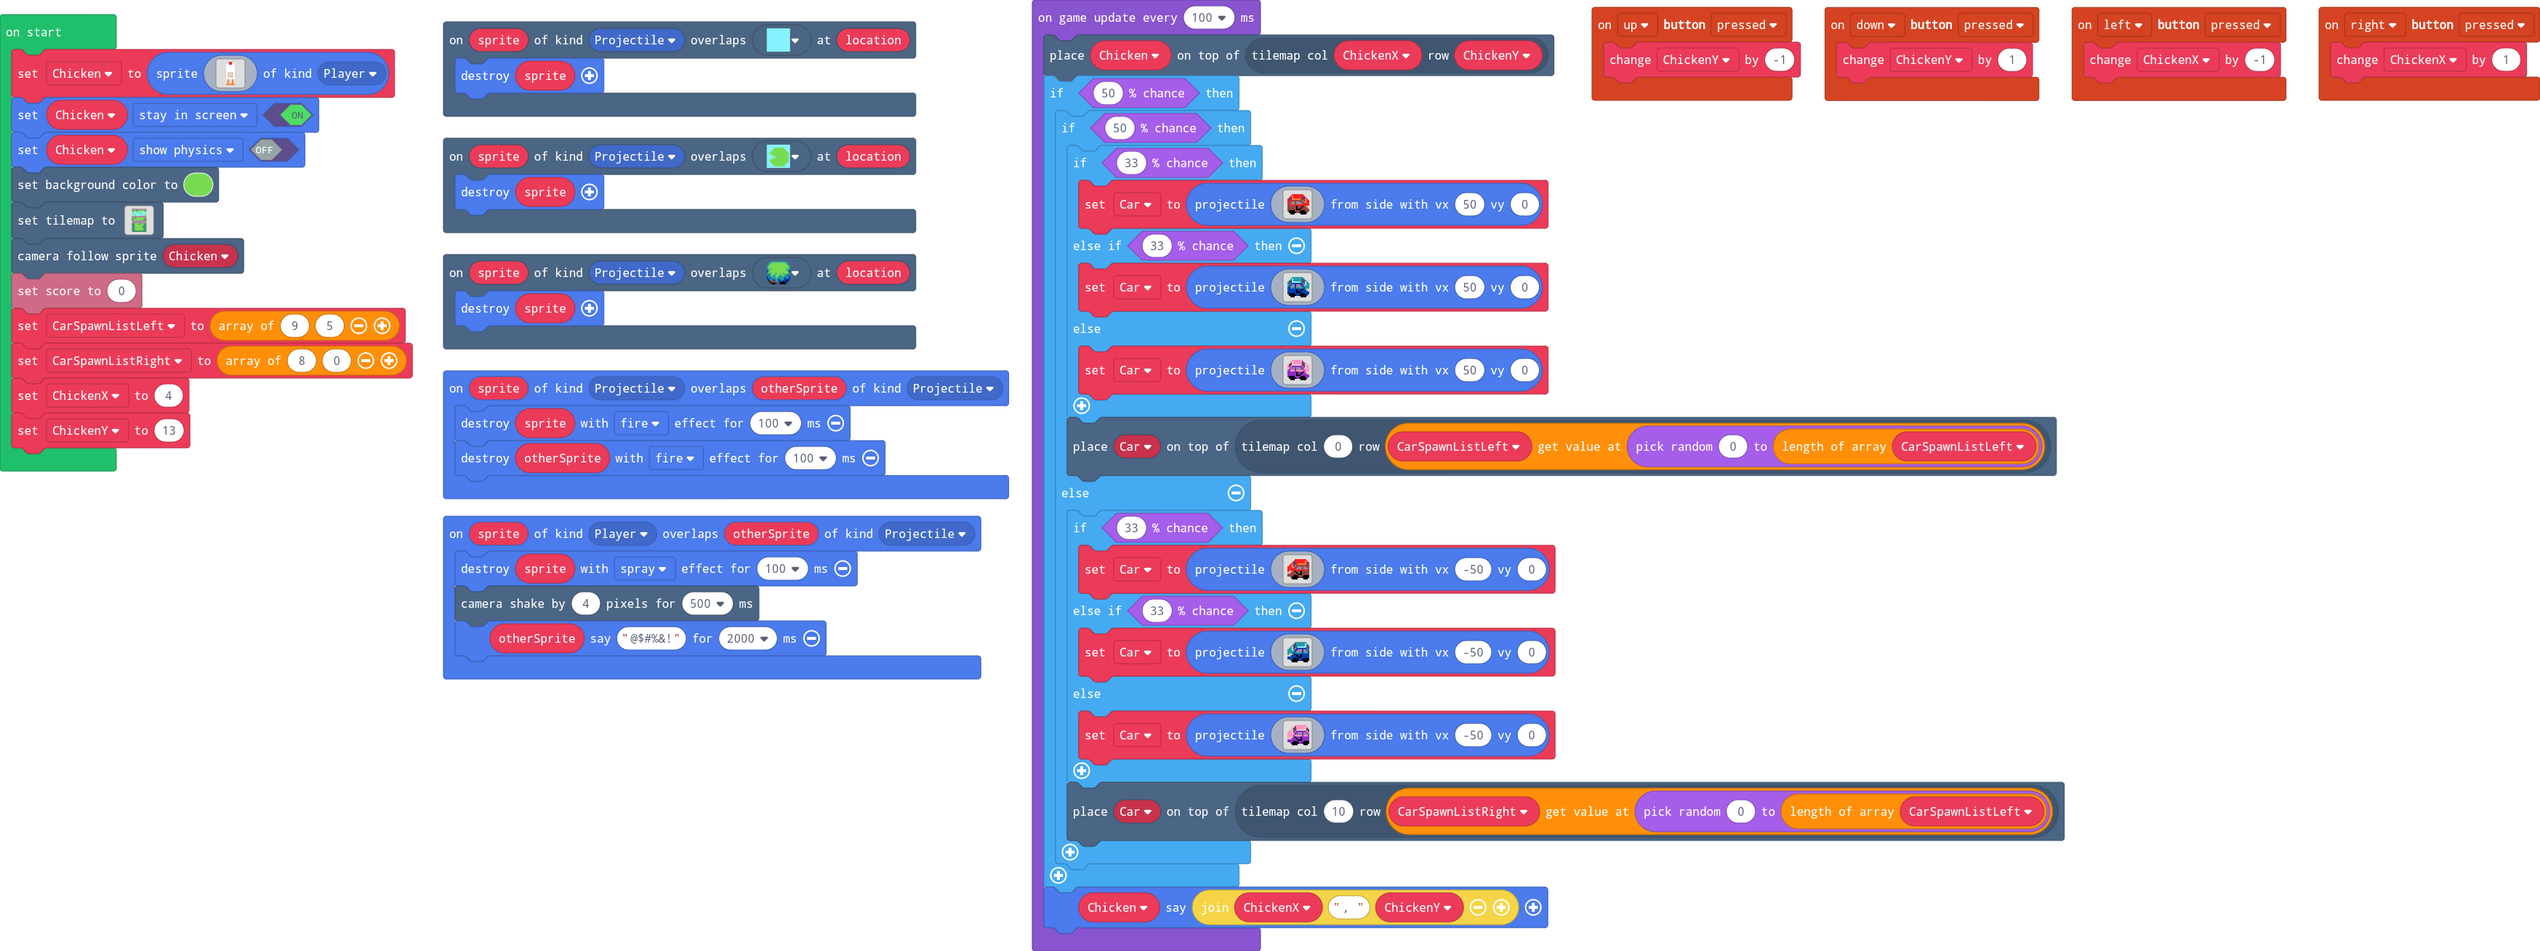
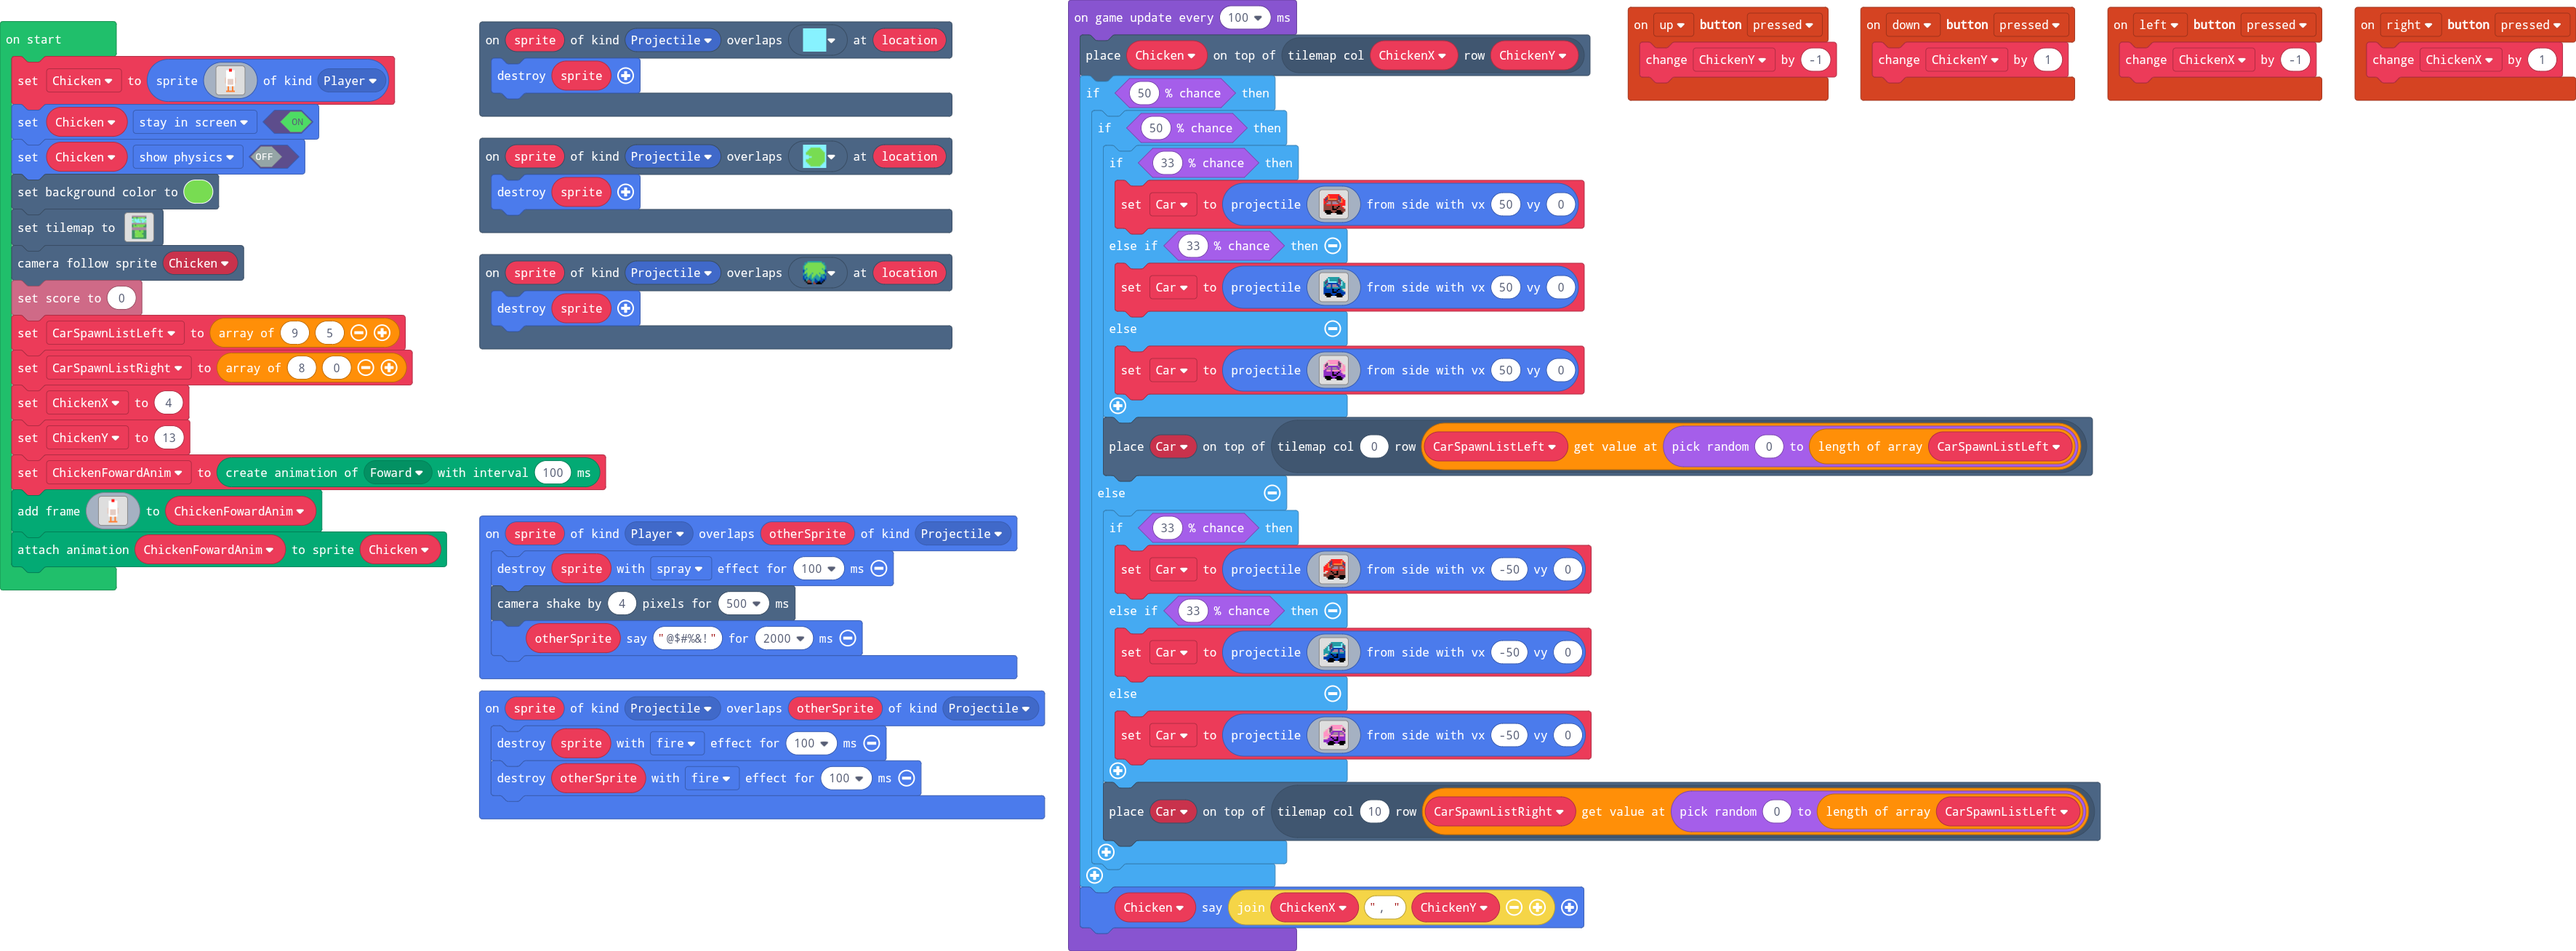
Update main.blocks, main.ts

Changed region(s): [[0.0, 0.0, 0.9671, 1.0], [0.3432, 0.2141, 0.3744, 0.2446], [0.3432, 0.0917, 0.3744, 0.1223]]

diff --git a/main.ts b/main.ts
@@ -163,6 +163,26 @@ let CarSpawnListLeft = [9, 5]
 let CarSpawnListRight = [8, 0]
 let ChickenX = 4
 let ChickenY = 13
+let ChickenFowardAnim = animation.createAnimation(ActionKind.Foward, 100)
+ChickenFowardAnim.addAnimationFrame(img`
+. . . . . . . 2 2 . . . . . . . 
+. . . . . 1 1 2 2 1 1 . . . . . 
+. . . . . 1 1 1 1 1 1 . . . . . 
+. . . . . 1 1 1 1 1 1 . . . . . 
+. . . . . 1 1 1 1 1 1 . . . . . 
+. . . . . 1 1 1 1 1 1 . . . . . 
+. . . . d 1 1 1 1 1 1 d . . . . 
+. . . . d 1 d d d d 1 d . . . . 
+. . . . d 1 d d d d 1 d . . . . 
+. . . . d 1 d d d d 1 d . . . . 
+. . . . . 1 d d d d 1 . . . . . 
+. . . . . 1 1 1 1 1 1 . . . . . 
+. . . . . . 4 . . 4 . . . . . . 
+. . . . . . 4 . . 4 . . . . . . 
+. . . . . . 4 . . 4 . . . . . . 
+. . . . . 4 4 4 4 4 4 . . . . . 
+`)
+animation.attachAnimation(Chicken, ChickenFowardAnim)
 game.onUpdateInterval(100, function () {
     tiles.placeOnTile(Chicken, tiles.getTileLocation(ChickenX, ChickenY))
     if (Math.percentChance(50)) {
